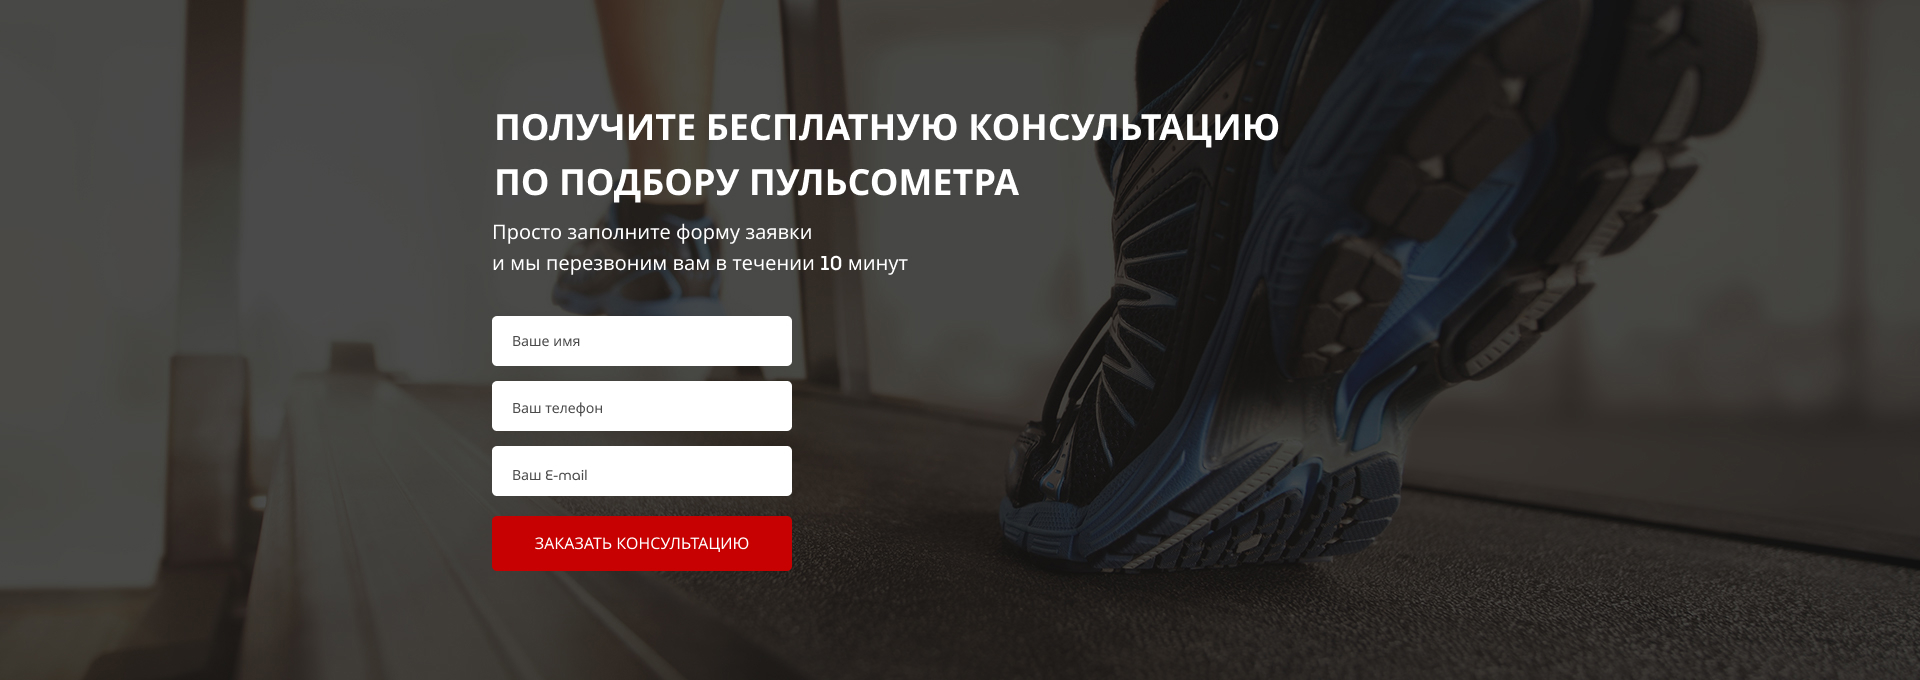
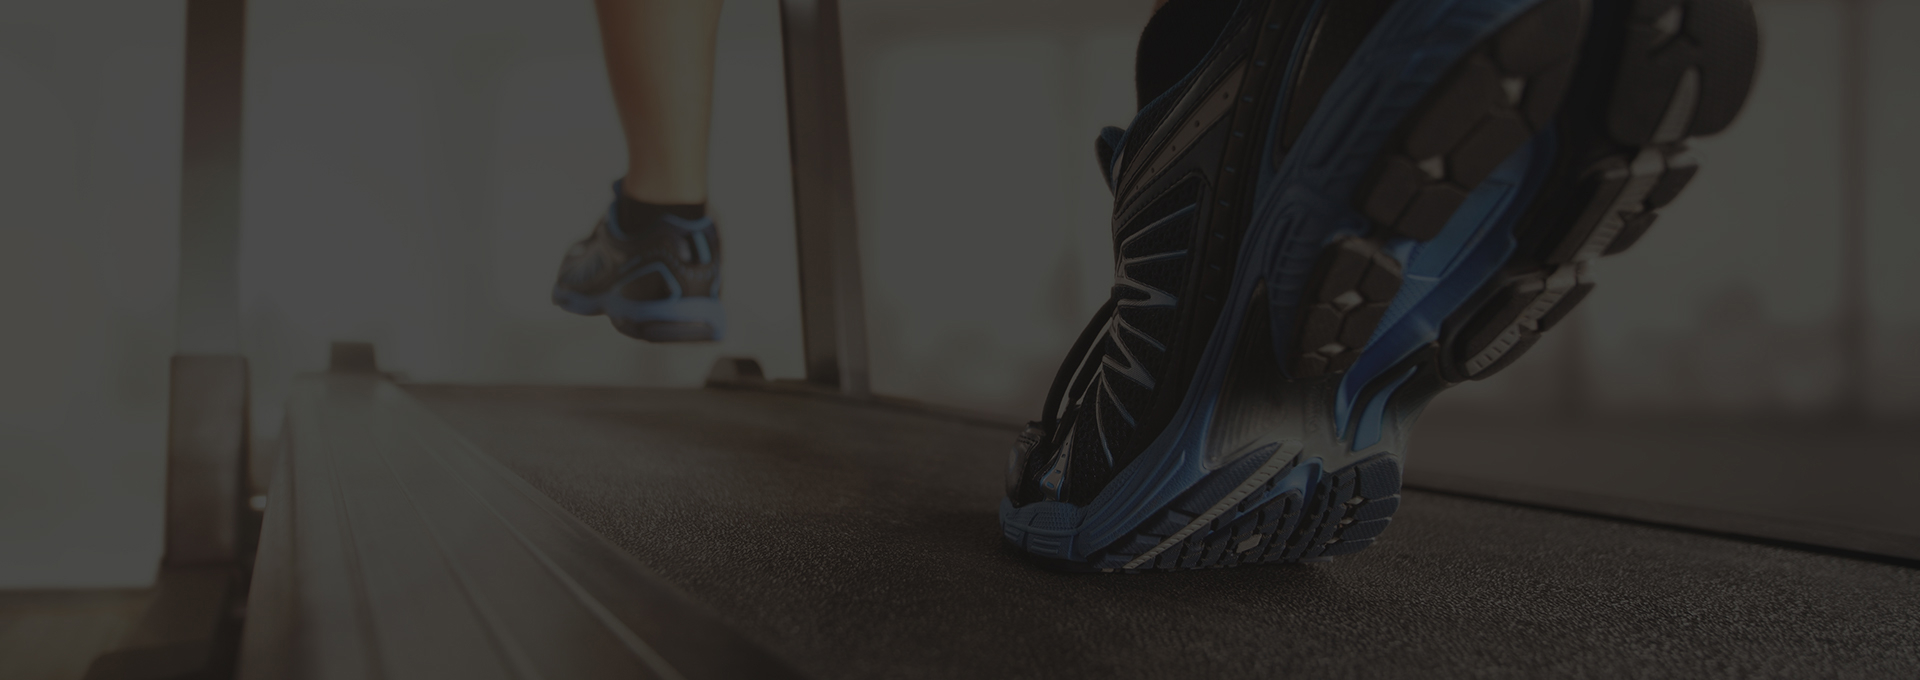
050 html

diff --git a/Pulsometers_HTML/src/css/style.min.css b/Pulsometers_HTML/src/css/style.min.css
@@ -1,1 +1,1 @@
-*{font-family:MuseoSansCyrl,sans-serif}.container{max-width:950px;margin:0 auto}.promo{min-height:650px;padding:21px 0 93px 0;background:url(../../img/running_girl-first_bg.jpg) center center/cover no-repeat}.promo__wrapper{color:#fff;display:-webkit-box;display:-ms-flexbox;display:flex;-webkit-box-orient:vertical;-webkit-box-direction:normal;-ms-flex-direction:column;flex-direction:column;-webkit-box-align:end;-ms-flex-align:end;align-items:flex-end;margin-top:90px}.promo__header{font-weight:700;font-size:42px;text-transform:uppercase;line-height:42px}.promo__subheader{margin-top:17px;font-weight:500;font-size:24px;text-transform:uppercase;line-height:24px}.promo__icons{margin-top:60px;display:-webkit-box;display:-ms-flexbox;display:flex;-webkit-box-pack:justify;-ms-flex-pack:justify;justify-content:space-between;width:425px;font-weight:500;font-size:14px;line-height:14px}.promo__icon{width:110px;text-align:center;font-weight:500;font-size:14px}.promo__icon img{display:block;margin-bottom:20px;margin:0 auto;margin-bottom:20px}.promo__link{margin-top:18px;font-size:16px;font-weight:500}.promo__link a{text-decoration:underline;text-transform:uppercase;color:#fff}.header{display:-webkit-box;display:-ms-flexbox;display:flex;-webkit-box-pack:justify;-ms-flex-pack:justify;justify-content:space-between;-webkit-box-align:center;-ms-flex-align:center;align-items:center}.header__logo{width:250px}.header__logo img{width:100%}.header__official{color:#fff;font-style:normal;font-weight:500;font-size:12px;text-align:center}.header__official span{display:block;font-size:18px}.header__phone{display:block;color:#fff;font-weight:700;font-size:18px}.header__phone:hover{text-decoration:none;color:#fff}.header__contacts{display:-webkit-box;display:-ms-flexbox;display:flex;-webkit-box-orient:vertical;-webkit-box-direction:normal;-ms-flex-direction:column;flex-direction:column;-webkit-box-align:end;-ms-flex-align:end;align-items:flex-end}.button{width:150px;height:30px;border-radius:5px;background-color:#c70101;border:none;color:#fff;font-weight:500;font-size:12px;text-transform:uppercase}.button_main{margin-top:67px;width:300px;height:50px;font-size:16px}
+*{font-family:MuseoSansCyrl,sans-serif}.container{max-width:950px;margin:0 auto}.promo{min-height:650px;padding:21px 0 93px 0;background:url(../../img/running_girl-first_bg.jpg) center center/cover no-repeat}.promo__wrapper{color:#fff;display:-webkit-box;display:-ms-flexbox;display:flex;-webkit-box-orient:vertical;-webkit-box-direction:normal;-ms-flex-direction:column;flex-direction:column;-webkit-box-align:end;-ms-flex-align:end;align-items:flex-end;margin-top:90px}.promo__header{font-weight:700;font-size:42px;text-transform:uppercase;line-height:42px}.promo__subheader{margin-top:17px;font-weight:500;font-size:24px;text-transform:uppercase;line-height:24px}.promo__icons{margin-top:60px;display:-webkit-box;display:-ms-flexbox;display:flex;-webkit-box-pack:justify;-ms-flex-pack:justify;justify-content:space-between;width:425px;font-weight:500;font-size:14px;line-height:14px}.promo__icon{width:110px;text-align:center;font-weight:500;font-size:14px}.promo__icon img{display:block;margin-bottom:20px;margin:0 auto;margin-bottom:20px}.promo__link{margin-top:18px;font-size:16px;font-weight:500}.promo__link a{text-decoration:underline;text-transform:uppercase;color:#fff}.header{display:-webkit-box;display:-ms-flexbox;display:flex;-webkit-box-pack:justify;-ms-flex-pack:justify;justify-content:space-between;-webkit-box-align:center;-ms-flex-align:center;align-items:center}.header__logo{width:250px}.header__logo img{width:100%}.header__official{color:#fff;font-style:normal;font-weight:500;font-size:12px;text-align:center}.header__official span{display:block;font-size:18px}.header__phone{display:block;color:#fff;font-weight:700;font-size:18px}.header__phone:hover{text-decoration:none;color:#fff}.header__contacts{display:-webkit-box;display:-ms-flexbox;display:flex;-webkit-box-orient:vertical;-webkit-box-direction:normal;-ms-flex-direction:column;flex-direction:column;-webkit-box-align:end;-ms-flex-align:end;align-items:flex-end}.button{width:150px;height:30px;border-radius:5px;background-color:#c70101;border:none;color:#fff;font-weight:500;font-size:12px;text-transform:uppercase}.button_main{margin-top:67px;width:300px;height:50px;font-size:16px}.button_submit{width:100%;height:55px;font-size:16px}.benefits{min-height:470px;background-color:#f6f6f6}.benefits__header{padding-top:70px;font-weight:700;font-size:30px;line-height:30px;text-align:center}.benefits__wrapper{margin-top:60px;display:-webkit-box;display:-ms-flexbox;display:flex;-webkit-box-pack:justify;-ms-flex-pack:justify;justify-content:space-between}.benefits .benefit{width:240px}.benefits .benefit img{display:block;margin:0 auto}.benefits .benefit__header{text-align:center;margin-top:35px;font-weight:700;font-size:18px;line-height:29px}.benefits .benefit__descr{margin-top:20px;font-weight:300;font-size:14px;line-height:18px;text-align:center}.benefits .benefit__descr a{text-transform:uppercase;color:red}@media(max-width:1200px){.container{max-width:900px}.promo__header{font-size:38px}.promo__subheader{font-size:20px}}@media(max-width:991px){.container{max-width:700px}.header__logo{width:200px}.header__official{font-size:11px}.header__official span{font-size:16px}.header__phone{font-size:16px}.header .button{font-size:11px;width:140px;height:25px}.promo{background-position:25% 50%}.promo__wrapper button{width:280px;height:45px}.benefits .benefit{width:205px}}@media(max-width:767px){.container{max-width:500px}.header__logo{width:160px}.header__official{font-size:10px}.header__official span{font-size:14px}.header__phone{font-size:12px}.header .button{font-size:10px;width:116px;height:20px}.promo{min-height:600px;background-position:25% 50%}.promo__header{font-size:34px}.promo__subheader{font-size:18px;margin-top:6px}.promo__icons{width:405px}.promo__icon{font-size:12px}.promo__icon img{margin-bottom:10px}.promo .button_main{font-size:15px;width:240px;height:34px}.promo__link{margin-top:14px;font-size:15px}.benefits__wrapper{min-height:700px;-webkit-box-orient:vertical;-webkit-box-direction:normal;-ms-flex-direction:column;flex-direction:column;-webkit-box-align:center;-ms-flex-align:center;align-items:center}.benefits .benefit{width:300px}}@media(max-width:575px){.container{max-width:300px}.header__official{display:none}.header__logo{width:150px}.header__phone{font-size:11px}.header .button{width:106px;height:19px}.promo{padding-bottom:40px}.promo__header{font-size:29px;line-height:35px}.promo__subheader{font-size:16px;margin-top:0}.promo__icons{width:300px;margin-top:40px}.promo__icon{width:90px;font-size:11px}.promo .button_main{font-size:14px;width:220px;height:30px}.promo__link{margin-top:10px;font-size:14px}.benefits{padding-bottom:50px}.benefits__header{font-size:27px}.benefits__wrapper{min-height:600px;margin-top:50px;-webkit-box-orient:vertical;-webkit-box-direction:normal;-ms-flex-direction:column;flex-direction:column}.benefits__wrapper .benefit{width:300px}.benefits__wrapper .benefit__header{margin-top:15px;line-height:18px}.benefits__wrapper .benefit__descr{margin-top:12px}}.consultation{min-height:680px;padding:100px 0 92px 0;background:url(../../img/consultation-treadmill.jpg) center center/cover no-repeat}.consultation__descr{font-weight:500;font-size:20px;line-height:30px;color:#fff}.title{text-transform:uppercase;color:#0d0d0d;font-size:30px;font-weight:700;text-align:center}.title_left{color:#fff;text-align:left;font-size:36px}.feed-form{margin-top:36px;display:-webkit-box;display:-ms-flexbox;display:flex;-webkit-box-orient:vertical;-webkit-box-direction:normal;-ms-flex-direction:column;flex-direction:column;width:300px}.feed-form input{height:50px;border:none;border-radius:5px;background-color:#fff;margin-bottom:15px;padding:0 20px;color:#4b4b4b;font-size:14px;font-weight:300}.feed-form input:nth-child(3){margin-bottom:20px}

diff --git a/Pulsometers_HTML/src/sass/base/_media.scss b/Pulsometers_HTML/src/sass/base/_media.scss
@@ -1,0 +1,189 @@
+@media (max-width: 1200px) {
+    .container {
+        max-width: 900px;
+    }
+    .promo {
+        &__header {
+            font-size: 38px;
+        }
+        &__subheader {
+            font-size: 20px;
+        }
+    }
+
+}
+
+@media (max-width: 991px) {
+    .container {
+        max-width: 700px;
+    }
+    .header {
+        &__logo {
+            width: 200px;
+        }
+        &__official {
+            font-size: 11px;
+            span{
+                font-size: 16px;
+            }
+        }
+        &__phone {
+            font-size: 16px;
+        }
+        .button {
+            font-size: 11px;
+            width: 140px;
+            height: 25px;
+        }
+    }
+    .promo {
+        background-position: 25% 50%;
+        &__wrapper {
+            button {
+                width: 280px;
+                height: 45px;
+            }
+        }
+    }
+
+    .benefits {
+        .benefit {
+            width: 205px;
+        }
+    }
+}
+
+@media (max-width: 767px) {
+    .container {
+        max-width: 500px;
+    }
+    .header {
+        &__logo {
+            width: 160px;
+        }
+        &__official {
+            font-size: 10px;
+            span{
+                font-size: 14px;
+            }
+        }
+        &__phone {
+            font-size: 12px;
+        }
+        .button {
+            font-size: 10px;
+            width: 116px;
+            height: 20px;
+        }
+    }
+    .promo {
+        min-height: 600px;
+        background-position: 25% 50%;
+        &__header {
+            font-size: 34px;
+        }
+        &__subheader {
+            font-size: 18px;
+            margin-top: 6px;
+        }
+        &__icons {
+            width: 405px;   
+        }
+        &__icon {
+            font-size: 12px;
+            img {
+                margin-bottom: 10px;
+            }
+        }
+        .button_main {
+            font-size: 15px;
+            width: 240px;
+            height: 34px;
+        }
+        &__link {
+            margin-top: 14px;
+            font-size: 15px;
+        }
+    }
+    .benefits {
+        &__wrapper {
+            min-height: 700px;
+            flex-direction: column;
+            align-items: center;
+        }
+        .benefit {
+            width: 300px;
+        }
+    }
+}
+
+@media (max-width: 575px) {
+    .container {
+        max-width: 300px;
+
+    }
+    .header {
+        &__official {
+            display: none;
+        }
+        &__logo {
+            width: 150px;
+        }
+        &__phone {
+            font-size: 11px;
+        }
+        .button {
+            width: 106px;
+            height: 19px;
+        }
+    }
+    .promo {
+        padding-bottom: 40px;
+        &__header {
+            font-size: 29px;
+            line-height: 35px;
+        }
+        &__subheader {
+            font-size: 16px;
+            margin-top: 0;
+        }
+        &__icons {
+            width: 300px;
+            margin-top: 40px;
+        }
+        &__icon {
+            width: 90px;
+            font-size: 11px;
+        }
+        .button_main {
+            font-size: 14px;
+            width: 220px;
+            height: 30px;
+        }
+        &__link {
+            margin-top: 10px;
+            font-size: 14px;
+        }
+    }
+    .benefits {
+        padding-bottom: 50px;
+        &__header {
+            font-size: 27px;
+        }
+        &__wrapper {
+            min-height: 600px;
+            margin-top: 50px;
+            flex-direction: column;
+            .benefit {
+                width: 300px;
+                &__header {
+                    margin-top: 15px;
+                    line-height: 18px;
+                }
+                &__descr {
+                    margin-top: 12px;
+                }
+            }
+        }
+    }
+}

diff --git a/Pulsometers_HTML/src/index.html b/Pulsometers_HTML/src/index.html
@@ -59,6 +59,59 @@
         </div>
     </div>
 
+    <!-- second block -->
+    <div class="benefits">
+        <div class="container">
+            <h2 class="benefits__header">НАШИ ПРЕИМУЩЕСТВА</h2>
+            <div class="benefits__wrapper">
+                <div class="benefit">
+                    <img src="icons/cup-experience.png" alt="experience sharing">
+                    <div class="benefit__header">Делимся опытом</div>
+                    <div class="benefit__descr">Наши сотрудники всегда готовы поделиться своим опытом, так как сами
+                        бегают полумарафоны, переплыли
+                        Босфор, готовятся к соревнованиям по триатлону!
+                    </div>
+                </div>
+                <div class="benefit">
+                    <img src="icons/heart-healthcare.png" alt="healthcare">
+                    <div class="benefit__header">Заботимся о здоровье</div>
+                    <div class="benefit__descr">
+                        Мы работаем для того, чтобы Ваши занятия спортом шли на пользу Вашему здоровью и были в радость
+                        Вам и Вашим близким!
+                    </div>
+                </div>
+                <div class="benefit">
+                    <img src="icons/shoe-run.png" alt="learn to run">
+                    <div class="benefit__header">Учим бегать</div>
+                    <div class="benefit__descr">
+                        Помогаем с обучением правильной технике бега! Дружим с крупнейшей школой бега в Исландии -
+                        <a href="#">I LOVE RUNNING.</a>
+                    </div>
+                </div>
+            </div>
+        </div>
+    </div>
+
+    <div class="consultation">
+        <div class="container">
+            <h2 class="title title_left">
+                Получите бесплатную консультацию<br>
+                по подбору пульсометра
+            </h2>
+            <div class="consultation__descr">
+                Просто заполните форму заявки<br>
+                и мы перезвоним вам в течении 10 минут
+            </div>
+            <form class="feed-form" action="#">
+                <input name="name" required placeholder="Ваше имя" type="text">
+                <input name="phone" required placeholder="Ваш телефон" type="tel">
+                <input name="email" required placeholder="Ваш E-mail" type="email">
+
+                <button class="button button_submit">заказать консультацию</button>
+            </form>
+        </div>
+    </div>
+
 
 </body>
 

diff --git a/Pulsometers_HTML/src/sass/blocks/_benefits.scss b/Pulsometers_HTML/src/sass/blocks/_benefits.scss
@@ -1,0 +1,43 @@
+.benefits {
+    min-height: 470px;
+    background-color: #F6F6F6;
+    &__header {
+        padding-top: 70px;
+        font-weight: 700;
+        font-size: 30px;
+        line-height: 30px;
+        text-align: center;
+    }
+    &__wrapper {
+        margin-top: 60px;
+        display: flex;
+        justify-content: space-between;
+    }
+    .benefit {
+        width: 240px;
+        img {
+            display: block;
+            margin: 0 auto;
+        }
+        &__header {
+            text-align: center;
+            margin-top: 35px;
+            font-weight: 700;
+            font-size: 18px;
+            line-height: 29px;
+        }
+        &__descr {
+            margin-top: 20px;
+            font-weight: 300;
+            font-size: 14px;
+            line-height: 18px;
+            text-align: center;
+            a {
+                text-transform: uppercase;
+                color: red;
+            }
+        }
+    }
+    
+    
+}

diff --git a/Pulsometers_HTML/src/sass/blocks/_forms.scss b/Pulsometers_HTML/src/sass/blocks/_forms.scss
@@ -1,0 +1,20 @@
+.feed-form {
+    margin-top: 36px;
+    display: flex;
+    flex-direction: column;
+    width: 300px;
+    input {
+        height: 50px;
+        border: none;
+        border-radius: 5px;
+        background-color: #ffffff;
+        margin-bottom: 15px;
+        padding: 0 20px;
+        color: #4b4b4b;
+        font-size: 14px;
+        font-weight: 300;
+        &:nth-child(3) {
+            margin-bottom: 20px;
+        }
+    }
+}

diff --git a/Pulsometers_HTML/src/sass/blocks/_consultation.scss b/Pulsometers_HTML/src/sass/blocks/_consultation.scss
@@ -1,0 +1,11 @@
+.consultation {
+    min-height: 680px;
+    padding: 100px 0 92px 0;
+    background: url('../../img/consultation-treadmill.jpg') center (center/cover) no-repeat;
+    &__descr {
+        font-weight: 500;
+        font-size: 20px;
+        line-height: 30px;
+        color: #ffffff;
+    }
+}

diff --git a/Pulsometers_HTML/src/sass/blocks/_titles.scss b/Pulsometers_HTML/src/sass/blocks/_titles.scss
@@ -1,0 +1,12 @@
+.title {
+    text-transform: uppercase;
+    color: #0d0d0d;
+    font-size: 30px;
+    font-weight: 700;
+    text-align: center;
+    &_left {
+        color: #ffffff;
+        text-align: left;
+        font-size: 36px;
+    }
+}

diff --git a/Pulsometers_HTML/src/sass/style.scss b/Pulsometers_HTML/src/sass/style.scss
@@ -10,3 +10,8 @@
 @import 'blocks/promo';
 @import 'blocks/header';
 @import 'blocks/buttons';
+@import 'blocks/benefits';
+@import 'base/media';
+@import 'blocks/consultation';
+@import 'blocks/titles';
+@import 'blocks/forms';

diff --git a/Pulsometers_HTML/src/sass/blocks/_buttons.scss b/Pulsometers_HTML/src/sass/blocks/_buttons.scss
@@ -14,4 +14,9 @@
         height: 50px;
         font-size: 16px;
     }
+    &_submit {
+        width: 100%;
+        height: 55px;
+        font-size: 16px;
+    }
 }
